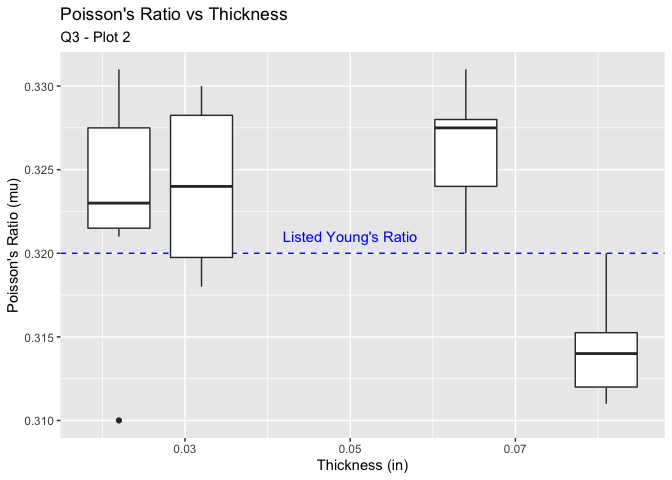
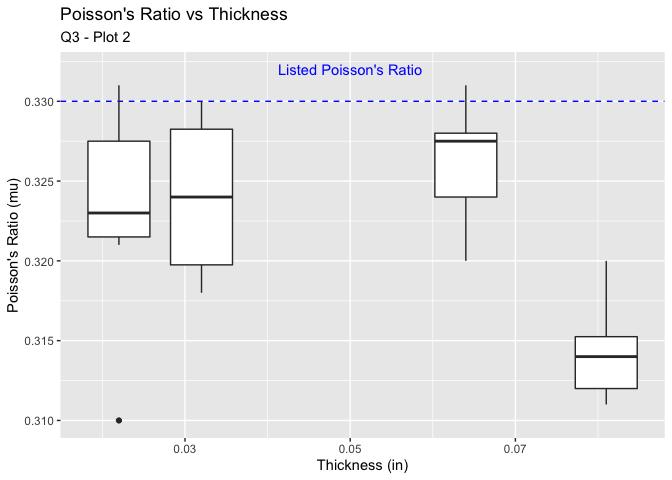
Aligning with team

diff --git a/challenges/c03-stang-assignment.md b/challenges/c03-stang-assignment.md
@@ -323,7 +323,7 @@ you need additional information to answer your question?
 q3_plot1 <- df_stang_long_factors %>% 
   ggplot() +
   geom_hline(
-    aes(yintercept = 10000), 
+    aes(yintercept = 10500), 
     linetype = "dashed", 
     color = "blue") +
   geom_boxplot(
@@ -335,9 +335,9 @@ q3_plot1 <- df_stang_long_factors %>%
   annotate("text", 
            label = "Listed Poisson's Ratio", 
            x = 0.05, 
-           y = 10050, 
+           y = 10550, 
            color = "blue") +
-  labs(title = "Young's Modulus vs Thickness", 
+  labs(title = "Modulus of Elasticity vs Thickness", 
        subtitle = "Q3 - Plot 1", 
        x = "Thickness (in)", 
        y = "Young's Modulus (E)"
@@ -348,7 +348,7 @@ q3_plot2 <- df_stang_long_factors %>%
   ggplot() +
   geom_hline(
     aes(
-      yintercept = 0.32
+      yintercept = 0.33
       ), 
     linetype = "dashed", 
     color = "blue"
@@ -361,9 +361,9 @@ q3_plot2 <- df_stang_long_factors %>%
       )
     ) +
   annotate("text", 
-           label = "Listed Young's Ratio", 
+           label = "Listed Poisson's Ratio", 
            x = 0.05, 
-           y = 0.321, 
+           y = 0.332, 
            color = "blue") +
   labs(title = "Poisson's Ratio vs Thickness",  
        subtitle = "Q3 - Plot 2", 
@@ -374,7 +374,7 @@ q3_plot2 <- df_stang_long_factors %>%
 q3_plot3 <- df_stang_long_factors %>% 
   ggplot() +
   geom_hline(
-    aes(yintercept = 10000), 
+    aes(yintercept = 10500), 
     linetype = "dashed", 
     color = "blue") +
   geom_boxplot(
@@ -394,11 +394,11 @@ q3_plot3 <- df_stang_long_factors %>%
         )
     ) +
   annotate("text", 
-           label = "Listed Young's Modulus", 
+           label = "Listed Modulus of Elasticity", 
            x = 45, 
-           y = 9950, 
+           y = 10550, 
            color = "blue") +
-  labs(title = "Poisson's Ratio vs Angle",  
+  labs(title = "Modulus of Elasticity vs Angle",  
        subtitle = "Q3 - Plot 3", 
        x = "Angle (degrees)", 
        y = "Young's Modulus (E)"
@@ -406,7 +406,7 @@ q3_plot3 <- df_stang_long_factors %>%
   
 q3_plot4 <- df_stang_long_factors %>% 
   ggplot() +
-  geom_hline(aes(yintercept = 0.32), 
+  geom_hline(aes(yintercept = 0.33), 
              linetype = "dashed", 
              color = "blue") +
   geom_boxplot(
@@ -431,7 +431,7 @@ q3_plot4 <- df_stang_long_factors %>%
   annotate("text", 
            label = "Listed Poisson's Ratio", 
            x = 45, 
-           y = 0.315, 
+           y = 0.335, 
            color = "blue"
            ) +
   labs(title = "Poisson's Ratio vs Angle",  
@@ -444,8 +444,8 @@ q3_plot5 <- df_stang_long_factors %>%
   ggplot() +
   geom_point(
     aes(
-      x = 10000, 
-      y = 0.32
+      x = 10500, 
+      y = 0.33
       ), 
     color = "blue", 
     size = 2
@@ -459,14 +459,14 @@ q3_plot5 <- df_stang_long_factors %>%
     ) +
   annotate("text", 
            label = "Quoted\n Properties", 
-           x = 10050, 
-           y = 0.323, 
+           x = 10550, 
+           y = 0.335, 
            color = "blue"
            ) +
   facet_grid(.~angle_cat) +
-    labs(title = "Young's Modulus vs Poisson's Ratio",  
+    labs(title = "Modulus of Elasticity vs Poisson's Ratio",  
          subtitle = "Q3 - Plot 5", 
-         x = "Young's Modulus (E)", 
+         x = "Modulus of Elasticity (E)", 
          y = "Poisson's Ratio (mu)"
          )
 ```
@@ -479,8 +479,9 @@ q3_plot1
 
 ***Q3 - Plot 1 Observations***
 
-**For small thicknesses (\<0.08 in), the Young’s modulus is higher than
-the quoted value.**
+**Used [link](http://ssrl-uark.com/MILHDBK5H.pdf) for property
+reference.** **For larger thicknesses (\>0.08 in), the Young’s modulus
+is lower than the quoted value.**
 
 ``` r
 q3_plot2
@@ -490,9 +491,8 @@ q3_plot2
 
 ***Q3 - Plot 2 Observations***
 
-**For small thicknesses (\<0.08 in), the Poisson’s ratio is higher than
-the quoted value. For 0.081 in thickness, the measured Poisson’s ratio
-is slightly lower.**
+**For larger thicknesses (\<0.08 in), the Poisson’s ratio is lower than
+the quoted value.**
 
 ``` r
 q3_plot3
@@ -600,12 +600,12 @@ q3_plot5
 ***Q3 - Plot 3 Observations***
 
 **There is no consistent order except that the thicker sheet (0.081 in)
-*tends* to be closer to the quoted property values.**
+*tends* to be further from the quoted property values.**
 
 ***Overall Observations***:
 
-  - **At small thicknesses (\< 0.08), the Young’s modulus and Poisson’s
-    ratio is slightly higher than the quoted values (regardless of
+  - **At large thicknesses (\> 0.08), the Young’s modulus and Poisson’s
+    ratio is slightly lower than the quoted values (regardless of
     angle). For rolling, impurities may be introduced and occupy a
     greater proprtion of the overall thickness and therefore measurement
     of properties. Further, at smaller thicknesses, the surface
@@ -619,7 +619,7 @@ q3_plot5
     on the measurement of Young’s modulus.**
   - **At the thickness ranges measured, angle presents an affect on the
     measurement of Poisson’s ratio - namely it is slightly higher at 45
-    degrees - not sure why yet.**
+    degrees - seems to indicate the samples are not isotropic.**
 
 ## Question 4
 
